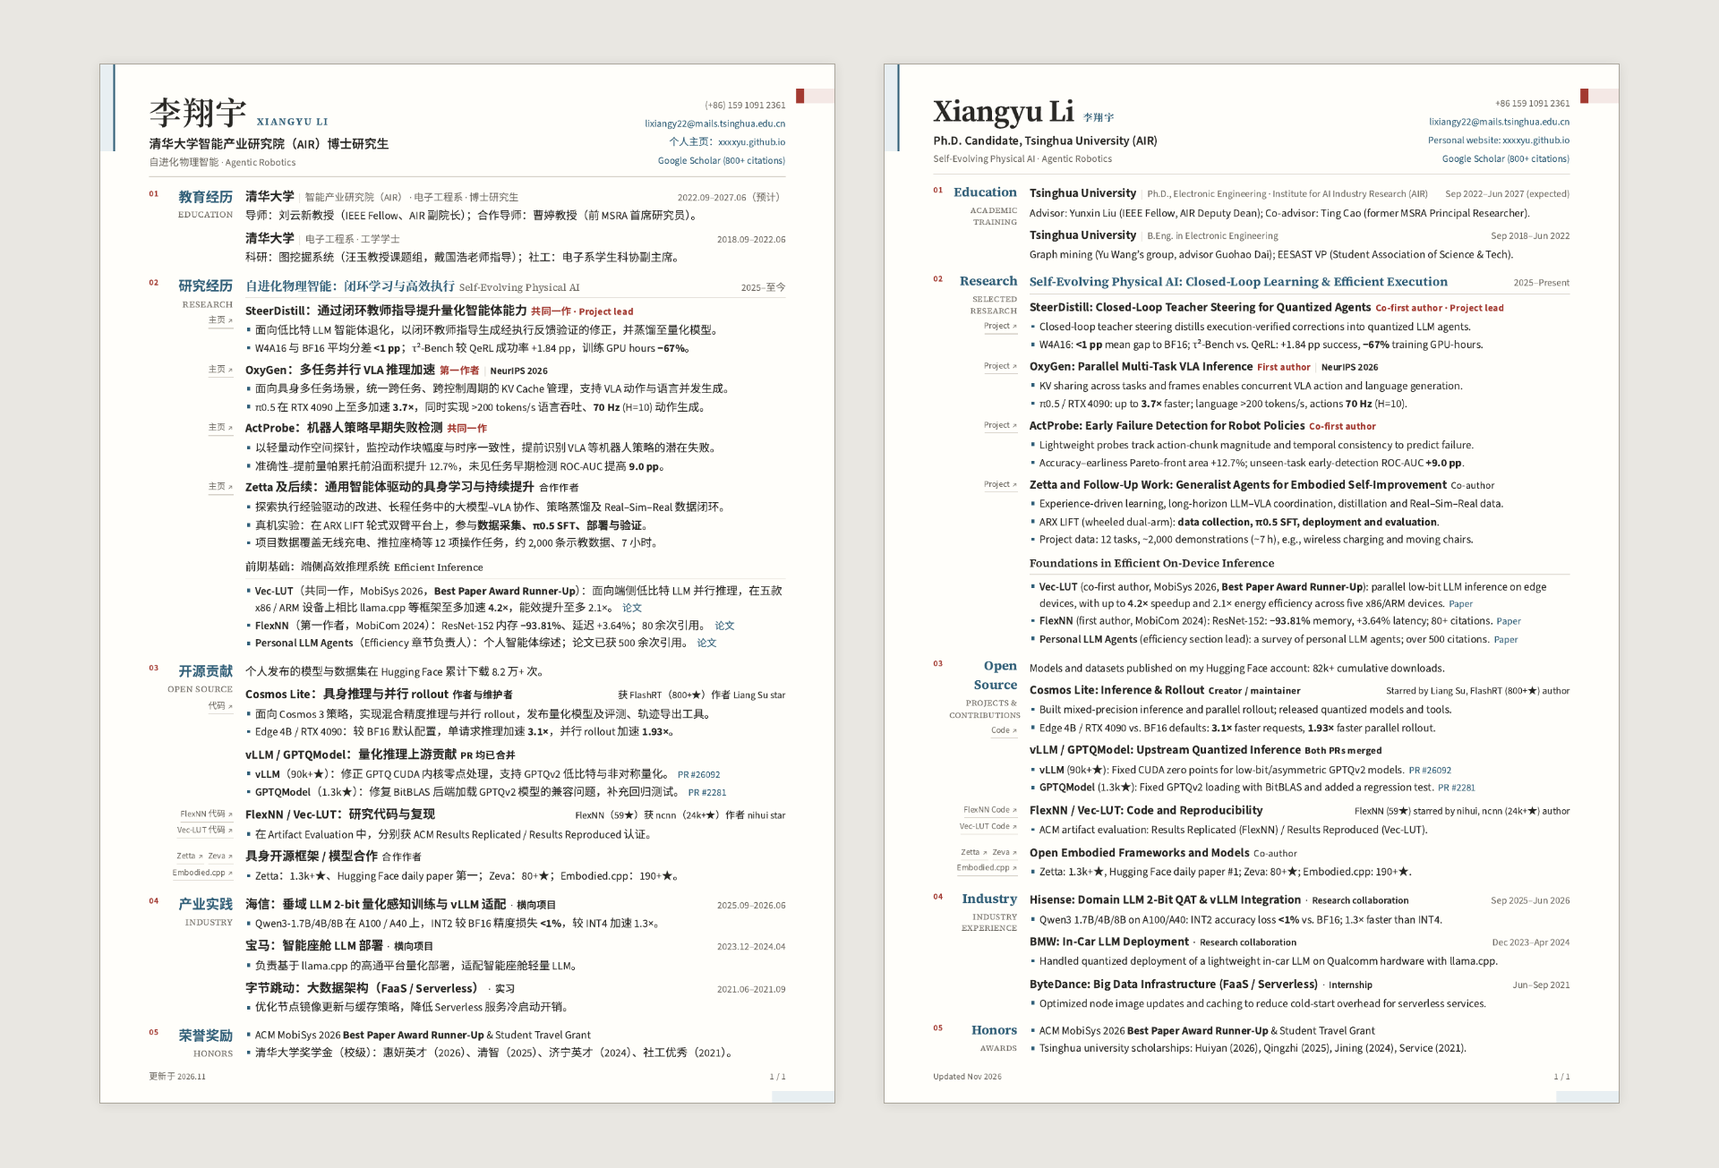
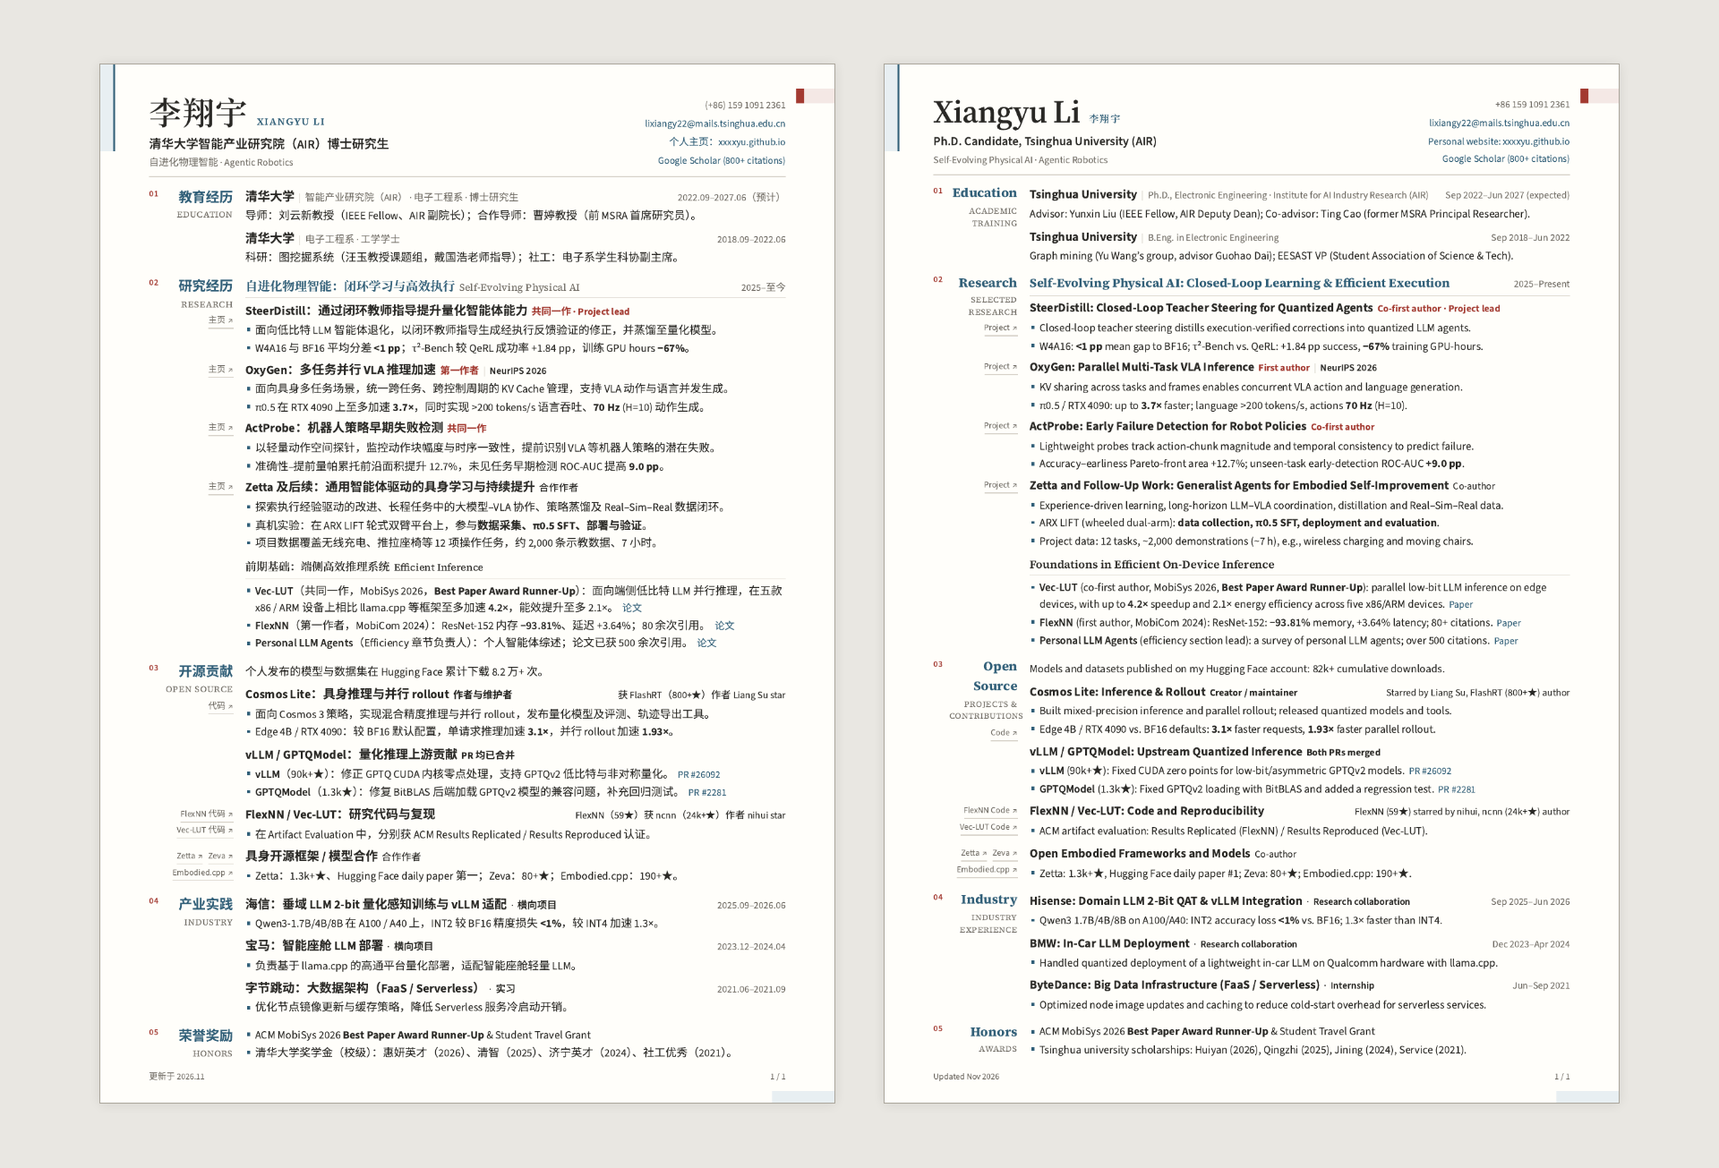
Standardize template type sizes, weights, and tracking

diff --git a/src/styles/main.css b/src/styles/main.css
@@ -31,6 +31,23 @@
 }
 
 :root {
+  /* Shared type scale: pt sizes use only whole or half points. */
+  --font-size-fine: 6.5pt;
+  --font-size-caption: 7pt;
+  --font-size-meta: 8pt;
+  --font-size-body: 9pt;
+  --font-size-entry: 10pt;
+  --font-size-section-en: 10.5pt;
+  --font-size-section: 11pt;
+  --font-size-document-title: 22pt;
+  --font-size-name: 26pt;
+  --weight-regular: 400;
+  --weight-medium: 600;
+  --weight-bold: 700;
+  --tracking-normal: 0;
+  --tracking-tight: -0.5px;
+  --tracking-label: 0.5px;
+  --tracking-wide: 1px;
   --paper: #fffefa;
   --ink: #292825;
   --muted: #716d66;
@@ -113,11 +130,11 @@ a { color: var(--blue); text-decoration: none; }
   border-radius: 5px;
   background: var(--notice-panel);
   color: var(--muted);
-  font-size: 8.5pt;
+  font-size: var(--font-size-body);
   line-height: 1.5;
 }
 .preview-notice p { display: grid; grid-template-columns: auto minmax(0, 1fr); gap: 8px; margin: 0; }
-.preview-notice strong { color: var(--ink); font-weight: 680; white-space: nowrap; }
+.preview-notice strong { color: var(--ink); font-weight: var(--weight-bold); white-space: nowrap; }
 .preview-notice a { border-bottom: 1px solid var(--link-rule); }
 
 .preview-toolbar {
@@ -136,19 +153,19 @@ a { color: var(--blue); text-decoration: none; }
   background: var(--toolbar-panel);
   box-shadow: var(--toolbar-shadow);
   backdrop-filter: blur(10px);
-  font-size: 9pt;
+  font-size: var(--font-size-body);
   line-height: 1.5;
 }
 .preview-title { display: flex; align-items: baseline; gap: 8px; }
-.preview-title strong { color: var(--blue); font-weight: 720; }
-.preview-title span { color: var(--muted); font-size: 8pt; }
+.preview-title strong { color: var(--blue); font-weight: var(--weight-bold); }
+.preview-title span { color: var(--muted); font-size: var(--font-size-meta); }
 .preview-controls { display: flex; align-items: center; gap: 6px; }
 .preview-tabs { display: flex; gap: 3px; padding: 3px; border-radius: 5px; background: var(--tab-bg); }
 .preview-tabs a { padding: 4px 10px; border-radius: 3px; color: var(--muted); }
 .preview-locales a { padding-right: 7px; padding-left: 7px; }
 .preview-palettes a { padding-right: 7px; padding-left: 7px; }
-.preview-tabs a.active { color: var(--ink); background: var(--paper); box-shadow: var(--active-shadow); font-weight: 680; }
-.preview-toolbar button { justify-self: end; padding: 6px 10px; border: 0; border-radius: 4px; color: #fff; background: var(--blue); font: inherit; font-weight: 650; cursor: pointer; }
+.preview-tabs a.active { color: var(--ink); background: var(--paper); box-shadow: var(--active-shadow); font-weight: var(--weight-bold); }
+.preview-toolbar button { justify-self: end; padding: 6px 10px; border: 0; border-radius: 4px; color: #fff; background: var(--blue); font: inherit; font-weight: var(--weight-medium); cursor: pointer; }
 
 .shape { position: absolute; pointer-events: none; }
 .shape-left { top: 0; left: 0; width: 4.2mm; height: 25mm; background: var(--blue-pale); border-right: 0.7mm solid var(--blue); }
@@ -170,37 +187,35 @@ a { color: var(--blue); text-decoration: none; }
 .name-block h1 {
   margin: 0;
   font-family: "Noto Serif SC Resume", "Noto Serif SC", serif;
-  font-size: 26pt;
-  font-weight: 620;
+  font-size: var(--font-size-name);
+  font-weight: var(--weight-medium);
   line-height: 1;
-  letter-spacing: 0.03em;
+  letter-spacing: var(--tracking-wide);
 }
 
 .page[lang="en"] .name-block h1 {
   font-family: "Source Serif 4", serif;
-  font-size: 25pt;
-  font-weight: 650;
-  letter-spacing: -0.02em;
+  letter-spacing: var(--tracking-tight);
 }
 
 .page[lang="en"] .latin-name {
   font-family: "Noto Serif SC Resume", "Noto Serif SC", serif;
-  font-size: 8pt;
-  letter-spacing: 0.08em;
+  font-size: var(--font-size-meta);
+  letter-spacing: var(--tracking-wide);
 }
 
 .latin-name {
   margin-top: 0;
   color: var(--blue);
   font-family: "Source Serif 4", serif;
-  font-size: 8pt;
-  font-weight: 650;
+  font-size: var(--font-size-meta);
+  font-weight: var(--weight-medium);
   line-height: 1.5;
-  letter-spacing: 0.13em;
+  letter-spacing: var(--tracking-wide);
 }
 
-.affiliation { margin-top: 0; font-size: 10pt; font-weight: 610; line-height: 1.5; }
-.fields { margin-top: 0.3mm; color: var(--muted); font-size: 8pt; line-height: 1.5; letter-spacing: 0.01em; }
+.affiliation { margin-top: 0; font-size: var(--font-size-entry); font-weight: var(--weight-medium); line-height: 1.5; }
+.fields { margin-top: 0.3mm; color: var(--muted); font-size: var(--font-size-meta); line-height: 1.5; letter-spacing: var(--tracking-normal); }
 
 address {
   display: flex;
@@ -212,7 +227,7 @@ address {
   justify-content: space-between;
   gap: 1mm;
   color: var(--muted);
-  font-size: 8pt;
+  font-size: var(--font-size-meta);
   font-style: normal;
   line-height: 1.5;
 }
@@ -232,11 +247,11 @@ address > * { white-space: nowrap; }
 }
 
 .section-label { display: grid; grid-template-columns: 4mm minmax(0, 1fr); column-gap: 0.5mm; align-content: start; align-items: start; align-self: start; padding: 0; }
-.section-index { grid-column: 1; grid-row: 1; color: var(--red); font-family: "Source Sans 3", sans-serif; font-size: 7pt; font-weight: 650; line-height: 1.5; letter-spacing: 0.04em; }
-.section-label h2 { grid-column: 2; grid-row: 1; margin: -0.5mm 0 0; color: var(--blue); font-family: "Noto Sans SC Resume", "Noto Sans SC", sans-serif; font-size: 11pt; font-weight: 680; line-height: 1.5; text-align: right; }
-.section-english { grid-column: 2; grid-row: 2; display: block; margin-top: 0.2mm; color: var(--muted); font-family: "Source Serif 4", serif; font-size: 7pt; line-height: 1.5; letter-spacing: 0.035em; text-transform: uppercase; text-align: right; }
-.page[lang="en"] .section-label h2 { font-family: "Source Serif 4", serif; font-size: 10.5pt; letter-spacing: -0.01em; }
-.page[lang="en"] .section-english { font-size: 6.4pt; letter-spacing: 0.045em; }
+.section-index { grid-column: 1; grid-row: 1; color: var(--red); font-family: "Source Sans 3", sans-serif; font-size: var(--font-size-caption); font-weight: var(--weight-medium); line-height: 1.5; letter-spacing: var(--tracking-label); }
+.section-label h2 { grid-column: 2; grid-row: 1; margin: -0.5mm 0 0; color: var(--blue); font-family: "Noto Sans SC Resume", "Noto Sans SC", sans-serif; font-size: var(--font-size-section); font-weight: var(--weight-bold); line-height: 1.5; text-align: right; }
+.section-english { grid-column: 2; grid-row: 2; display: block; margin-top: 0.2mm; color: var(--muted); font-family: "Source Serif 4", serif; font-size: var(--font-size-caption); line-height: 1.5; letter-spacing: var(--tracking-label); text-transform: uppercase; text-align: right; }
+.page[lang="en"] .section-label h2 { font-family: "Source Serif 4", serif; font-size: var(--font-size-section-en); letter-spacing: var(--tracking-normal); }
+.page[lang="en"] .section-english { font-size: var(--font-size-fine); letter-spacing: var(--tracking-label); }
 .section-content { min-width: 0; padding-top: 0; }
 .resume-page .entry { position: relative; }
 .entry + .entry { margin-top: 1.5mm; }
@@ -250,29 +265,29 @@ address > * { white-space: nowrap; }
 .entry-head-full { grid-template-columns: minmax(0, 1fr); }
 
 .entry-identity { display: flex; flex-wrap: wrap; align-items: baseline; gap: 0.4mm 1.15mm; min-width: 0; }
-.entry h3 { display: inline; margin: 0; font-size: 10pt; font-weight: 680; line-height: 1.5; }
-.entry-engagement { color: var(--ink); font-size: 8pt; font-weight: 600; line-height: 1.5; white-space: nowrap; }
-.entry-engagement::before { content: "·"; margin-right: 1.15mm; font-weight: 400; }
-.entry-role { color: var(--ink); font-size: 8pt; font-weight: 400; line-height: 1.5; letter-spacing: 0.02em; }
-.entry-recognition { margin-left: auto; color: var(--ink); font-size: 8pt; font-weight: 400; line-height: 1.5; white-space: nowrap; }
-.entry-venue { color: var(--ink); font-size: 8pt; font-weight: 640; line-height: 1.5; }
-.entry-venue::before { content: "|"; margin-right: 1.15mm; color: var(--rule); font-weight: 400; }
-.entry-meta { color: var(--muted); font-size: 8pt; line-height: 1.5; }
+.entry h3 { display: inline; margin: 0; font-size: var(--font-size-entry); font-weight: var(--weight-bold); line-height: 1.5; }
+.entry-engagement { color: var(--ink); font-size: var(--font-size-meta); font-weight: var(--weight-medium); line-height: 1.5; white-space: nowrap; }
+.entry-engagement::before { content: "·"; margin-right: 1.15mm; font-weight: var(--weight-regular); }
+.entry-role { color: var(--ink); font-size: var(--font-size-meta); font-weight: var(--weight-regular); line-height: 1.5; letter-spacing: var(--tracking-normal); }
+.entry-recognition { margin-left: auto; color: var(--ink); font-size: var(--font-size-meta); font-weight: var(--weight-regular); line-height: 1.5; white-space: nowrap; }
+.entry-venue { color: var(--ink); font-size: var(--font-size-meta); font-weight: var(--weight-medium); line-height: 1.5; }
+.entry-venue::before { content: "|"; margin-right: 1.15mm; color: var(--rule); font-weight: var(--weight-regular); }
+.entry-meta { color: var(--muted); font-size: var(--font-size-meta); line-height: 1.5; }
 .entry-meta::before { content: "|"; margin-right: 1.15mm; color: var(--rule); }
-time { color: var(--muted); font-size: 8pt; font-variant-numeric: tabular-nums; line-height: 1.5; text-align: right; white-space: nowrap; }
+time { color: var(--muted); font-size: var(--font-size-meta); font-variant-numeric: tabular-nums; line-height: 1.5; text-align: right; white-space: nowrap; }
 
-.entry p, .entry li { margin: 0; font-size: 9pt; line-height: 1.5; }
+.entry p, .entry li { margin: 0; font-size: var(--font-size-body); line-height: 1.5; }
 .entry p { margin-top: 0.42mm; }
 .entry ul { margin: 0.5mm 0 0; padding: 0; list-style: none; }
 .entry li { position: relative; padding-left: 2.8mm; }
 .entry li + li { margin-top: 0.38mm; }
 .entry li::before { content: ""; position: absolute; top: 0.55em; left: 0.45mm; width: 0.95mm; height: 0.95mm; background: var(--blue); }
-.text-title { color: var(--ink); font-weight: 600; }
-.text-meta { color: var(--ink); font-weight: 400; }
-.text-distinction { color: var(--ink); font-weight: 700; }
-.text-highlight { color: var(--ink); font-weight: var(--highlight-weight, 700); }
-.text-accent { color: var(--red); font-weight: 700; }
-.refs { margin-left: 1.1mm; font-size: 8pt; line-height: 1.5; }
+.text-title { color: var(--ink); font-weight: var(--weight-medium); }
+.text-meta { color: var(--ink); font-weight: var(--weight-regular); }
+.text-distinction { color: var(--ink); font-weight: var(--weight-bold); }
+.text-highlight { color: var(--ink); font-weight: var(--highlight-weight, var(--weight-bold)); }
+.text-accent { color: var(--red); font-weight: var(--weight-bold); }
+.refs { margin-left: 1.1mm; font-size: var(--font-size-meta); line-height: 1.5; }
 .ref-separator { margin: 0 0.55mm; color: var(--rule); }
 .entry-plain p { display: block; }
 .entry-plain p + p { margin-top: 0.55mm; }
@@ -290,7 +305,7 @@ time { color: var(--muted); font-size: 8pt; font-variant-numeric: tabular-nums; 
   justify-content: flex-end;
   align-items: baseline;
   gap: 0.7mm 1.5mm;
-  font-size: 7pt;
+  font-size: var(--font-size-caption);
   line-height: 1.5;
   text-align: right;
 }
@@ -307,7 +322,7 @@ time { color: var(--muted); font-size: 8pt; font-variant-numeric: tabular-nums; 
 }
 .entry-margin-refs a:hover, .entry-margin-refs a:focus-visible { color: var(--blue); border-bottom-color: currentColor; }
 .entry-margin-refs a:focus-visible { outline: 1px solid var(--blue); outline-offset: 2px; }
-.margin-link-arrow { flex: none; font-size: 0.9em; }
+.margin-link-arrow { flex: none; font-size: var(--font-size-fine); }
 
 .research-group + .research-group { margin-top: 2mm; }
 .research-group-head {
@@ -319,20 +334,20 @@ time { color: var(--muted); font-size: 8pt; font-variant-numeric: tabular-nums; 
   border-bottom: 0.55pt solid var(--rule);
 }
 .research-group-title { display: flex; flex-wrap: wrap; align-items: baseline; gap: 0.5mm 1.2mm; }
-.research-group-title h3 { margin: 0; color: var(--blue); font-family: "Noto Serif SC Resume", "Noto Serif SC", serif; font-size: 10pt; line-height: 1.5; }
-.page[lang="en"] .research-group-title h3 { font-family: "Source Serif 4", serif; font-weight: 660; }
-.research-group-title > span:last-child { color: var(--muted); font-family: "Source Serif 4", serif; font-size: 8pt; line-height: 1.5; }
+.research-group-title h3 { margin: 0; color: var(--blue); font-family: "Noto Serif SC Resume", "Noto Serif SC", serif; font-size: var(--font-size-entry); line-height: 1.5; }
+.page[lang="en"] .research-group-title h3 { font-family: "Source Serif 4", serif; font-weight: var(--weight-bold); }
+.research-group-title > span:last-child { color: var(--muted); font-family: "Source Serif 4", serif; font-size: var(--font-size-meta); line-height: 1.5; }
 .research-group-entries { margin-top: 1mm; }
 .research-group-entries .entry + .entry { margin-top: 1.2mm; }
 
 .research-group[data-emphasis="supporting"] {
-  --highlight-weight: 600;
+  --highlight-weight: var(--weight-medium);
 }
 .research-group[data-emphasis="supporting"] .research-group-head { border-bottom-color: var(--rule-soft); }
 .research-group[data-emphasis="supporting"] .research-group-title h3 {
   color: var(--ink);
-  font-size: 9pt;
-  font-weight: 600;
+  font-size: var(--font-size-body);
+  font-weight: var(--weight-medium);
 }
 .research-group[data-emphasis="supporting"] .research-group-title > span:last-child { color: var(--ink); }
 
@@ -344,12 +359,12 @@ time { color: var(--muted); font-size: 8pt; font-variant-numeric: tabular-nums; 
   display: flex;
   justify-content: space-between;
   color: var(--muted);
-  font-size: 7pt;
+  font-size: var(--font-size-caption);
   line-height: 1.5;
-  letter-spacing: 0.015em;
+  letter-spacing: var(--tracking-normal);
 }
 
-.document-continuation-cue { display: inline-flex; align-items: baseline; gap: 1.5mm; color: var(--blue); font-weight: 650; }
+.document-continuation-cue { display: inline-flex; align-items: baseline; gap: 1.5mm; color: var(--blue); font-weight: var(--weight-medium); }
 .document-continuation-cue b { color: var(--red); }
 
 .papers-page { padding-top: 10mm; }
@@ -360,20 +375,19 @@ time { color: var(--muted); font-size: 8pt; font-variant-numeric: tabular-nums; 
   padding-bottom: 2.6mm;
   border-bottom: 0.55pt solid var(--rule);
 }
-.papers-kicker { color: var(--red); font-family: "Source Serif 4", serif; font-size: 7pt; font-weight: 700; line-height: 1.5; letter-spacing: 0.11em; }
-.papers-header h1 { margin: 0.4mm 0 0; color: var(--blue); font-family: "Noto Serif SC Resume", "Noto Serif SC", serif; font-size: 22pt; font-weight: 650; line-height: 1.5; letter-spacing: 0.03em; }
-.papers-page[lang="en"] .papers-header h1 { font-family: "Source Serif 4", serif; letter-spacing: -0.015em; }
-.papers-header h1 small { margin-left: 2mm; color: var(--muted); font-size: 9pt; font-weight: 550; }
-.papers-header p { margin: 0.3mm 0 0; color: var(--muted); font-size: 8pt; line-height: 1.5; }
+.papers-kicker { color: var(--red); font-family: "Source Serif 4", serif; font-size: var(--font-size-caption); font-weight: var(--weight-bold); line-height: 1.5; letter-spacing: var(--tracking-wide); }
+.papers-header h1 { margin: 0.4mm 0 0; color: var(--blue); font-family: "Noto Serif SC Resume", "Noto Serif SC", serif; font-size: var(--font-size-document-title); font-weight: var(--weight-medium); line-height: 1.5; letter-spacing: var(--tracking-wide); }
+.papers-page[lang="en"] .papers-header h1 { font-family: "Source Serif 4", serif; letter-spacing: var(--tracking-tight); }
+.papers-header p { margin: 0.3mm 0 0; color: var(--muted); font-size: var(--font-size-meta); line-height: 1.5; }
 .papers-header p span { color: var(--rule); }
-.papers-source { display: flex; flex-direction: column; align-items: flex-end; gap: 0.5mm; color: var(--muted); font-size: 8pt; line-height: 1.5; }
+.papers-source { display: flex; flex-direction: column; align-items: flex-end; gap: 0.5mm; color: var(--muted); font-size: var(--font-size-meta); line-height: 1.5; }
 
 .paper-list { margin-top: 2.7mm; }
 .paper-group + .paper-group { margin-top: var(--paper-group-gap, 5.3mm); }
 .paper-group-header { display: flex; align-items: baseline; gap: 1.5mm; padding-bottom: 0.8mm; border-bottom: 0.55pt solid var(--rule); }
-.paper-group-header h2 { margin: 0; color: var(--blue); font-family: "Noto Serif SC Resume", "Noto Serif SC", serif; font-size: 11pt; font-weight: 650; line-height: 1.5; }
+.paper-group-header h2 { margin: 0; color: var(--blue); font-family: "Noto Serif SC Resume", "Noto Serif SC", serif; font-size: var(--font-size-section); font-weight: var(--weight-medium); line-height: 1.5; }
 .papers-page[lang="en"] .paper-group-header h2 { font-family: "Source Serif 4", serif; }
-.paper-group-header span { color: var(--muted); font-family: "Source Serif 4", serif; font-size: 8pt; font-weight: 650; line-height: 1.5; letter-spacing: 0.06em; }
+.paper-group-header span { color: var(--muted); font-family: "Source Serif 4", serif; font-size: var(--font-size-meta); font-weight: var(--weight-medium); line-height: 1.5; letter-spacing: var(--tracking-label); }
 .paper-item {
   display: grid;
   grid-template-columns: 7.5mm minmax(0, 1fr);
@@ -382,22 +396,22 @@ time { color: var(--muted); font-size: 8pt; font-variant-numeric: tabular-nums; 
   border-bottom: 0.4pt solid var(--rule-soft);
   break-inside: avoid;
 }
-.paper-index { padding-top: 0.08mm; color: var(--red); font-family: "Source Serif 4", serif; font-size: 8pt; font-weight: 700; line-height: 1.5; letter-spacing: 0.04em; }
+.paper-index { padding-top: 0.08mm; color: var(--red); font-family: "Source Serif 4", serif; font-size: var(--font-size-meta); font-weight: var(--weight-bold); line-height: 1.5; letter-spacing: var(--tracking-label); }
 .paper-content { min-width: 0; }
-.paper-content h2 { margin: 0; font-family: "Source Serif 4", "Noto Serif SC Resume", serif; font-size: 10pt; font-weight: 650; line-height: 1.5; letter-spacing: -0.006em; }
-.paper-authors { margin-top: 0.2mm; color: var(--muted); font-size: 8pt; line-height: 1.5; }
-.paper-authors strong { color: var(--blue); font-weight: 750; }
-.paper-detail { display: flex; flex-wrap: wrap; align-items: baseline; gap: 0.3mm 1.1mm; margin-top: 0.2mm; font-size: 8pt; line-height: 1.5; }
-.paper-venue { color: var(--ink); font-weight: 670; }
-.paper-note { color: var(--ink); font-weight: 600; }
-.paper-note-highlight { color: var(--ink); font-weight: 700; }
-.paper-detail .refs { margin-left: 0.2mm; font-size: 8pt; }
+.paper-content h2 { margin: 0; font-family: "Source Serif 4", "Noto Serif SC Resume", serif; font-size: var(--font-size-entry); font-weight: var(--weight-medium); line-height: 1.5; letter-spacing: var(--tracking-normal); }
+.paper-authors { margin-top: 0.2mm; color: var(--muted); font-size: var(--font-size-meta); line-height: 1.5; }
+.paper-authors strong { color: var(--blue); font-weight: var(--weight-bold); }
+.paper-detail { display: flex; flex-wrap: wrap; align-items: baseline; gap: 0.3mm 1.1mm; margin-top: 0.2mm; font-size: var(--font-size-meta); line-height: 1.5; }
+.paper-venue { color: var(--ink); font-weight: var(--weight-bold); }
+.paper-note { color: var(--ink); font-weight: var(--weight-medium); }
+.paper-note-highlight { color: var(--ink); font-weight: var(--weight-bold); }
+.paper-detail .refs { margin-left: 0.2mm; font-size: var(--font-size-meta); }
 .paper-page-limit { position: absolute; right: 14mm; bottom: 17.5mm; left: 14mm; height: 0; pointer-events: none; }
-.paper-continuation-cue { position: absolute; right: 14mm; bottom: 11.5mm; display: flex; align-items: center; gap: 1.5mm; color: var(--blue); font-family: "Source Serif 4", "Noto Serif SC Resume", serif; font-size: 7pt; font-weight: 650; line-height: 1.5; letter-spacing: 0.035em; }
+.paper-continuation-cue { position: absolute; right: 14mm; bottom: 11.5mm; display: flex; align-items: center; gap: 1.5mm; color: var(--blue); font-family: "Source Serif 4", "Noto Serif SC Resume", serif; font-size: var(--font-size-caption); font-weight: var(--weight-medium); line-height: 1.5; letter-spacing: var(--tracking-label); }
 .paper-continuation-cue::before { width: 18mm; border-top: 0.45pt solid var(--rule); content: ""; }
-.paper-continuation-cue b { color: var(--red); font-size: 8pt; font-weight: 700; }
+.paper-continuation-cue b { color: var(--red); font-size: var(--font-size-meta); font-weight: var(--weight-bold); }
 .paper-measure { position: absolute; top: 0; left: -1000vw; visibility: hidden; width: 182mm; pointer-events: none; }
-.paper-footer { position: absolute; left: 14mm; right: 14mm; bottom: 5.2mm; display: flex; justify-content: space-between; color: var(--muted); font-size: 7pt; line-height: 1.5; }
+.paper-footer { position: absolute; left: 14mm; right: 14mm; bottom: 5.2mm; display: flex; justify-content: space-between; color: var(--muted); font-size: var(--font-size-caption); line-height: 1.5; }
 
 @page { size: A4; margin: 0; }
 

diff --git a/README.md b/README.md
@@ -69,6 +69,11 @@ The resume header groups the name and affiliation on the left and contacts in
 a right-hand column; the update date sits in the footer. Body text stays at 9pt
 with 1.5 line height, 3 mm section gaps, 1.5 mm ordinary entry gaps, and 1.2 mm
 research entry gaps.
+Typography is centralized in the `:root` tokens in `src/styles/main.css`:
+6.5pt fine details, 7pt captions, 8pt metadata, 9pt body, 10pt entry titles,
+10.5/11pt English/Chinese section labels, 22pt publication-page titles, and 26pt
+names in both languages. Weights use only 400/600/700; tracking uses 0, ±0.5px,
+or 1px. Reuse these tokens instead of adding per-entry sizes or arbitrary weights.
 The resume uses a 9 mm top margin. In the complete edition, the continuation
 hint shares the footer row with the update date and page number.
 
